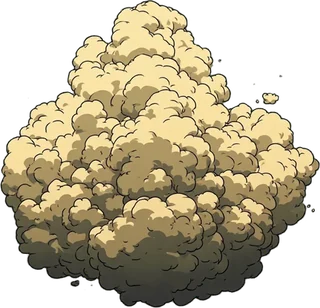
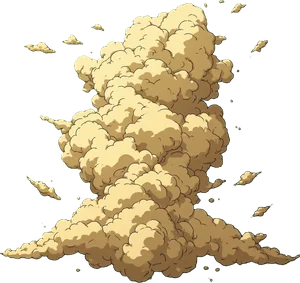
New summon dust cloud (rising column), keyed from the supplied picture

diff --git a/index.html b/index.html
@@ -180,7 +180,7 @@ input[type=text],input[type=number],input[type=search]{width:100%;font:inherit;p
 .fxflash{border-radius:14px;background:radial-gradient(circle,#ff2d3fdd 0%,#ff2d3f88 45%,#ff2d3f00 75%);animation:fxflash .55s ease-out forwards}
 @keyframes fxflash{0%{opacity:0;transform:scale(.7)}25%{opacity:1}100%{opacity:0;transform:scale(1.5)}}
 .fxdust{background:url(img/fx/dust.webp) center/contain no-repeat;animation:fxdust .75s ease-out forwards}
-@keyframes fxdust{0%{transform:scale(.25);opacity:0}30%{opacity:.95}100%{transform:scale(1.3);opacity:0}}
+@keyframes fxdust{0%{transform:translateY(28%) scale(.25);opacity:0}30%{opacity:.95}100%{transform:translateY(-14%) scale(1.3);opacity:0}}
 .fxshield{background:url(img/fx/shield.webp) center/contain no-repeat;animation:fxshin .22s ease-out forwards}
 .fxshield.hold{animation:fxshin .22s ease-out forwards,fxshake .4s .3s,fxshout .3s 1s forwards}
 @keyframes fxshin{from{transform:scale(.3);opacity:0}to{transform:scale(1);opacity:1}}
